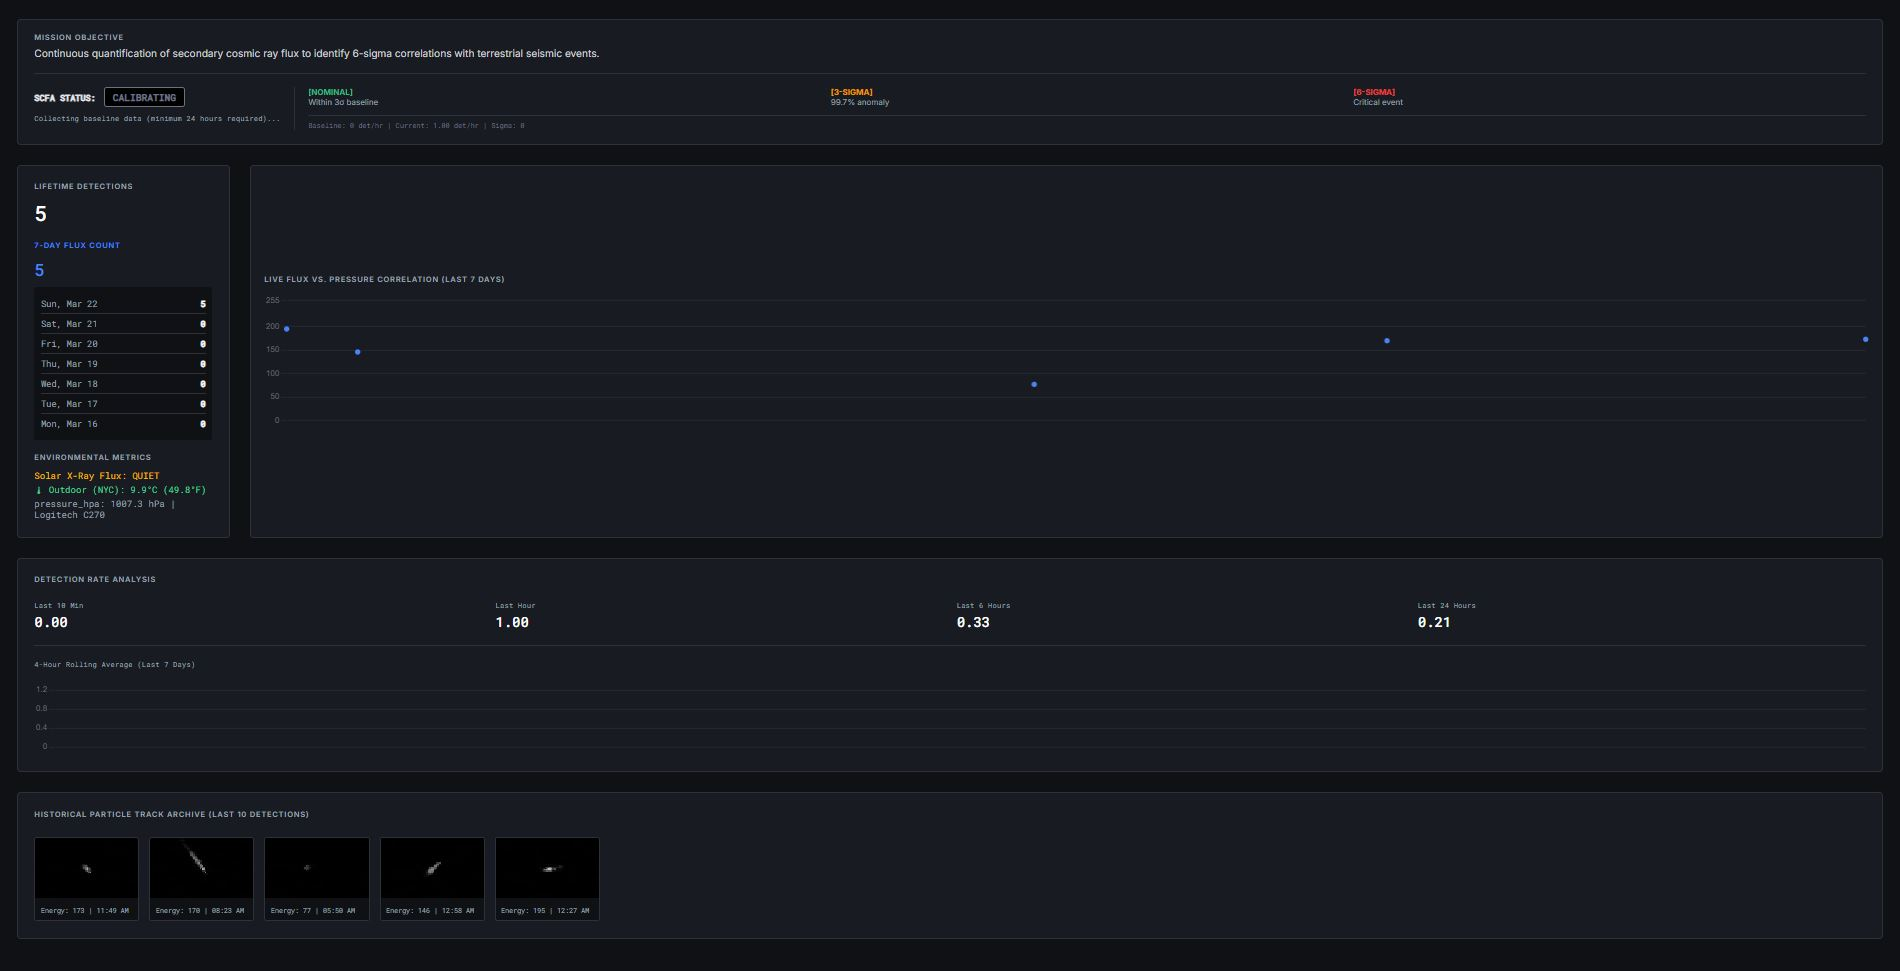
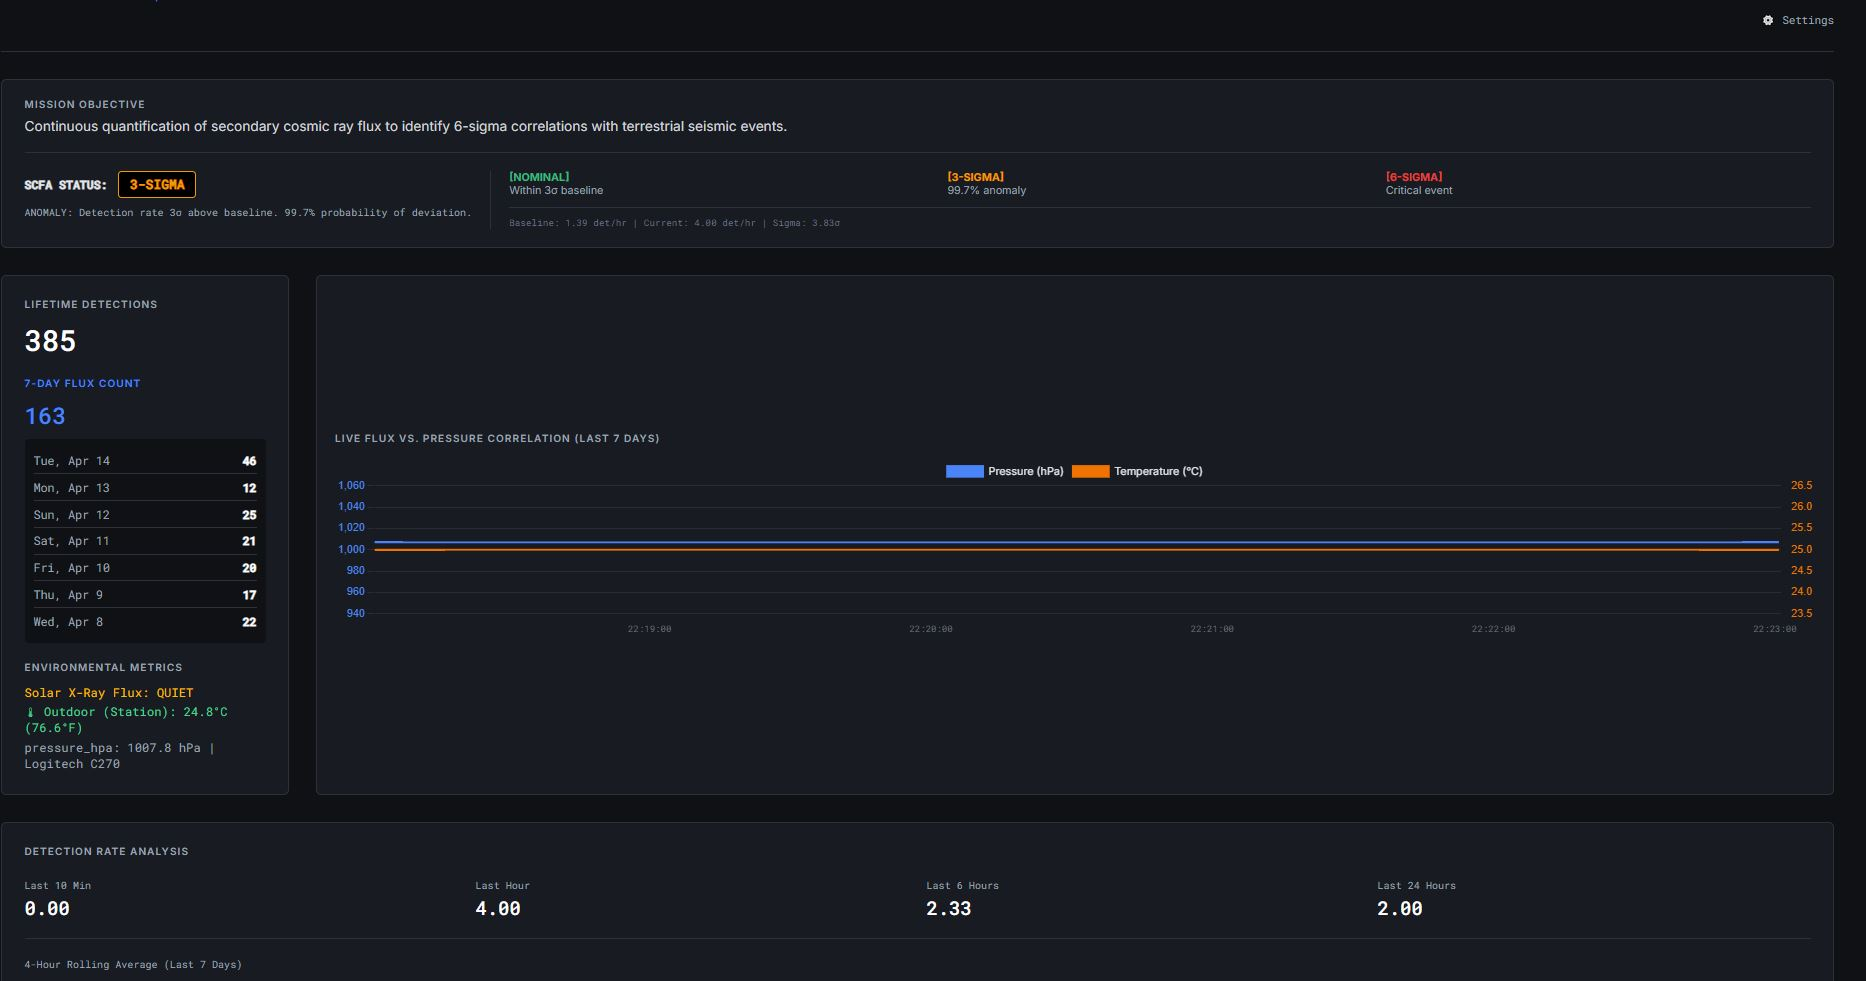
Version 1.3.0, a significant stability and precision upgrade for the CMOSmicRay backend. The core focus was refactoring the WebSocket architecture for multi-threaded resilience, implementing spatial validation to eliminate sensor noise, and introducing an adaptive thresholding model for higher-fidel
1. WebSocket Architecture Refactor
*   Global Scoping: Decoupled handlers and broadcast logic from thread-local targets to the module level, resolving long-standing scoping issues.
*   Python 3.10+ Compatibility: Explicitly managed `asyncio` event loops within the dedicated WebSocket thread, satisfying requirements for newer Python runtimes.
*   Resilience & Cleanup* implemented `discard()`-based client management and specific catches for `ConnectionClosedError` to prevent "zombie" connection accumulation.

2. Spatial Hardening (The 3x3 Check)
*   Introduced `is_spatially_valid` to analyze the neighborhood of a potential hit.
*   The system now rejects isolated "hot pixels" by requiring at least one adjacent pixel to clear a 50% intensity floor relative to the peak, significantly reducing false positives from thermal sensor flicker.

3. Adaptive Detection Logic
*   Updated camera profiles with three-tier gating: `min_absolute`, `ratio_threshold`, and `ratio_min`.
*   Detection sensitivity now scales dynamically based on local background brightness, ensuring consistent performance across varying light/thermal conditions.

4. Diagnostic & Resource Management
*   Trace Diagnostics Added a `RotatingFileHandler` that exports detection telemetry to a CSV (`trace_diagnostics.csv`). This allows for post-hoc analysis of "near-misses" and rejected spatial events without filling the disk.
[…]

diff --git a/CMOSmicRay/CMOSmicRay.py b/CMOSmicRay/CMOSmicRay.py
@@ -17,10 +17,12 @@ import subprocess
 import threading
 import sys
 import logging
+import logging.handlers
 import copy
 from datetime import datetime
 import asyncio
 import websockets
+from websockets.exceptions import ConnectionClosedError, ConnectionClosedOK
 from collections import deque
 from dotenv import load_dotenv
 
@@ -47,15 +49,22 @@ LOCAL_LOG_FILE = os.path.join(BASE_DIR, "detections.json")
 LOCAL_STATUS_FILE = os.path.join(BASE_DIR, "status.json")
 
 # --- HARDWARE PROFILES ---
+# threshold      : legacy absolute pixel-diff gate (kept for reference)
+# min_absolute   : hard minimum diff value to even consider a hit
+# ratio_threshold: adaptive gate — maxVal must be >= ratio_threshold * bg_brightness
+# ratio_min      : floor for the adaptive gate (ignores very dark backgrounds)
 HARDWARE_PROFILES = {
     "C270_FAMILY": {
-        "threshold": 60, "exposure": 1000, "gain": 255, "driver_quirk": "legacy"
+        "threshold": 60, "exposure": 1000, "gain": 255, "driver_quirk": "legacy",
+        "min_absolute": 60, "ratio_threshold": 3.5, "ratio_min": 45
     },
     "C922_FAMILY": {
-        "threshold": 95, "exposure": 150, "gain": 128, "driver_quirk": "standard"
+        "threshold": 95, "exposure": 150, "gain": 128, "driver_quirk": "standard",
+        "min_absolute": 95, "ratio_threshold": 4.0, "ratio_min": 70
     },
     "GENERIC": {
-        "threshold": 80, "exposure": 500, "gain": 150, "driver_quirk": "standard"
+        "threshold": 80, "exposure": 500, "gain": 150, "driver_quirk": "standard",
+        "min_absolute": 80, "ratio_threshold": 3.5, "ratio_min": 55
     }
 }
 
@@ -89,7 +98,7 @@ ALT = float(os.getenv("CREDO_ALT"))
 bg_frame = None; alpha = 0.01; current_token = None
 SCRIPT_START = int(time.time() * 1000); LAST_PING = SCRIPT_START
 last_frame_time = time.time()
-data_cache = deque(maxlen=10000)
+data_cache = []          # Capped at 1000 entries; plain list for JSON serialisation
 connected_clients = set()
 
 # --- ATMOSPHERIC STATE ---
@@ -122,59 +131,134 @@ def get_pressure():
 def get_outdoor_temp():
     return cached_outdoor_temp
 
-def ws_thread_target():
-    loop = asyncio.new_event_loop()
-    asyncio.set_event_loop(loop)
-    
-    async def broadcast():
-        while True:
-            await asyncio.sleep(1)
+# --- DIAGNOSTIC TRACE LOGGER ---
+# Uses a RotatingFileHandler: max 2 MB per file, keeps 5 backups (~10 MB total).
+# CSV format so the data can be loaded directly into pandas / Excel for analysis.
+DIAG_LOG_FILE = os.path.join(BASE_DIR, "trace_diagnostics.csv")
+
+_diag_handler = logging.handlers.RotatingFileHandler(
+    DIAG_LOG_FILE, maxBytes=2 * 1024 * 1024, backupCount=5, encoding="utf-8"
+)
+_diag_handler.setFormatter(logging.Formatter("%(message)s"))  # raw CSV rows
+
+diag_logger = logging.getLogger("TraceDiagnostics")
+diag_logger.setLevel(logging.INFO)
+diag_logger.addHandler(_diag_handler)
+diag_logger.propagate = False  # don't echo to the main console stream
+
+# Write CSV header only when the file is new / empty
+if not os.path.exists(DIAG_LOG_FILE) or os.path.getsize(DIAG_LOG_FILE) == 0:
+    diag_logger.info("timestamp_iso,status,max_val,bg_val,ratio,loc_x,loc_y,note")
+
+
+def log_trace_event(status, max_val, bg_val, coord, note=""):
+    """
+    Appends one CSV row to the rotating diagnostic log.
+    status: 'ACCEPTED' | 'REJECTED_SENSITIVITY' | 'REJECTED_SPATIAL'
+    """
+    ratio = (max_val / bg_val) if bg_val > 0 else float("inf")
+    row = (
+        f"{datetime.utcnow().isoformat()},"
+        f"{status},{int(max_val)},{int(bg_val)},{ratio:.2f},"
+        f"{coord[0]},{coord[1]},{note}"
+    )
+    diag_logger.info(row)
+
+
+def is_spatially_valid(diff_frame, x, y, peak_val):
+    """
+    Returns True if the 3x3 neighbourhood around (x, y) contains more than one
+    pixel above 50 % of the peak value — i.e. the hit is NOT an isolated hot pixel.
+    """
+    roi = diff_frame[max(0, y - 1):y + 2, max(0, x - 1):x + 2]
+    return int(np.sum(roi >= (peak_val * 0.5))) > 1
+
+# --- WEBSOCKET LOGIC (MODULE-LEVEL) ---
+
+async def handler(websocket):
+    """Handles the lifecycle of a single dashboard client connection."""
+    client_info = websocket.remote_address
+    connected_clients.add(websocket)
+    logging.info(f"[WS] Client connected: {client_info}")
+
+    try:
+        # Initial sync: send historical data and script start time
+        await websocket.send(json.dumps({
+            "type": "init",
+            "data": list(data_cache),
+            "script_start": SCRIPT_START
+        }))
+        # Keep connection alive; listen for any client messages
+        async for message in websocket:
+            pass
+
+    except (ConnectionClosedError, ConnectionClosedOK):
+        logging.info(f"[WS] Client {client_info} disconnected normally.")
+    except Exception as e:
+        logging.error(f"[WS] Error with client {client_info}: {e}")
+    finally:
+        connected_clients.discard(websocket)
+        logging.info(f"[WS] Client {client_info} removed from active set.")
+
+
+async def broadcast():
+    """Background task: push telemetry updates to all active dashboard clients."""
+    while True:
+        await asyncio.sleep(1)
+        try:
             now = time.time()
             sys_status = "SYSTEM_STALLED" if (now - last_frame_time > 5.0) else "OK"
-            
-            t_ms = int(now * 1000)
+
             payload = {
                 "type": "update",
-                "timestamp": t_ms,
+                "timestamp": int(now * 1000),
                 "temp": get_outdoor_temp() or 0.0,
                 "pressure": get_pressure() or 0.0,
                 "system_status": sys_status
             }
+
+            # Update cache and cap memory usage
             data_cache.append(payload)
-            
-            if connected_clients:
-                msg = json.dumps(payload)
-                for ws in list(connected_clients):
-                    try:
-                        await ws.send(msg)
-                    except:
-                        pass
-                        
-    async def handler(*args):
-        websocket = args[0]
-        connected_clients.add(websocket)
-        logging.info("[DASHBOARD] WebSocket Client Connected.")
+            if len(data_cache) > 1000:
+                data_cache.pop(0)
+
+            if not connected_clients:
+                continue
+
+            msg = json.dumps(payload)
+            # Broadcast guard: prune dead connections on send failure
+            for ws in list(connected_clients):
+                try:
+                    await ws.send(msg)
+                except (ConnectionClosedError, ConnectionClosedOK, Exception):
+                    connected_clients.discard(ws)
+
+        except Exception as e:
+            logging.error(f"[WS] Broadcast loop error: {e}")
+
+
+def ws_thread_target():
+    """Entry point for the dedicated WebSocket server thread."""
+    new_loop = asyncio.new_event_loop()
+    asyncio.set_event_loop(new_loop)
+
+    async def main_ws():
+        logging.info("[WS] Server starting on port 8001...")
+        broadcast_task = asyncio.create_task(broadcast())
         try:
-            await websocket.send(json.dumps({
-                "type": "init", 
-                "data": list(data_cache),
-                "script_start": SCRIPT_START
-            }))
-            async for _ in websocket: pass
-        except:
-            pass
+            async with websockets.serve(
+                handler, "0.0.0.0", 8001,
+                ping_interval=20,
+                ping_timeout=20
+            ):
+                await asyncio.Future()  # Run forever
         finally:
-            if websocket in connected_clients:
-                connected_clients.remove(websocket)
-            logging.info("[DASHBOARD] WebSocket Client Disconnected.")
+            broadcast_task.cancel()
 
-    async def main():
-        asyncio.create_task(broadcast())
-        # websockets.serve supports both single and double args depending on version
-        async with websockets.serve(handler, "0.0.0.0", 8001):
-            await asyncio.Future()
-
-    loop.run_until_complete(main())
+    try:
+        new_loop.run_until_complete(main_ws())
+    finally:
+        new_loop.close()
 
 def tune_driver():
     logging.info(f"[HARDWARE] Tuning {PROFILE_KEY} ({PROFILE['driver_quirk']})...")
@@ -412,18 +496,53 @@ if __name__ == "__main__":
     
     while True:
         ret, frame = cap.read()
-        if not ret: time.sleep(1); continue
-        
-        # Watchdog status update
+        if not ret:
+            time.sleep(1)
+            continue
+
+        # Watchdog: record frame arrival for SYSTEM_STALLED detection
         last_frame_time = time.time()
-        
+
         gray = cv2.cvtColor(frame, cv2.COLOR_BGR2GRAY)
-        if bg_frame is None: bg_frame = gray.astype("float"); continue
+        if bg_frame is None:
+            bg_frame = gray.astype("float")
+            continue
+
         cv2.accumulateWeighted(gray, bg_frame, alpha)
         diff = cv2.absdiff(gray, cv2.convertScaleAbs(bg_frame))
         _, maxVal, _, maxLoc = cv2.minMaxLoc(diff)
-        
-        if maxVal > PROFILE['threshold']:
-            process_hit(diff, maxLoc[0], maxLoc[1], maxVal)
-            time.sleep(0.5)
+
+        x, y = maxLoc
+        bg_brightness = int(bg_frame[y, x])
+
+        # --- Gate 1: Sensitivity checks ---
+        # Absolute gate: raw diff must exceed the hard minimum for this sensor
+        cond_absolute = maxVal >= PROFILE['min_absolute']
+        # Adaptive gate: diff must be a significant multiple of local background
+        #   AND must clear the ratio floor (avoids false positives on dark frames)
+        cond_adaptive = (
+            maxVal >= PROFILE['ratio_threshold'] * bg_brightness
+            and maxVal >= PROFILE['ratio_min']
+        )
+        # Edge guard: ignore hits right on the frame border (driver artefacts)
+        cond_not_edge = (x > 0 and y > 0)
+
+        if (cond_absolute or cond_adaptive) and cond_not_edge:
+            # --- Gate 2: Spatial hardening — reject isolated hot pixels ---
+            if is_spatially_valid(diff, x, y, maxVal):
+                log_trace_event("ACCEPTED", maxVal, bg_brightness, maxLoc)
+                process_hit(diff, x, y, maxVal)
+                time.sleep(0.5)          # brief cooldown after a confirmed hit
+            else:
+                log_trace_event(
+                    "REJECTED_SPATIAL", maxVal, bg_brightness, maxLoc,
+                    "Isolated pixel — failed 3x3 neighbourhood check"
+                )
+        elif maxVal > PROFILE['min_absolute'] * 0.7:
+            # Near-miss: reached 70 % of the absolute threshold — log for tuning
+            log_trace_event(
+                "REJECTED_SENSITIVITY", maxVal, bg_brightness, maxLoc,
+                "Near-miss (<threshold)"
+            )
+
         time.sleep(0.02)

diff --git a/CHANGELOG.md b/CHANGELOG.md
@@ -5,6 +5,17 @@ All notable changes to this project will be documented in this file.
 The format is based on [Keep a Changelog](https://keepachangelog.com/en/1.0.0/),
 and this project adheres to [Semantic Versioning](https://semver.org/spec/v2.0.0.html).
 
+## [1.3.0] - 2026-04-14
+### Added
+- **Diagnostic Trace Logger**: Implemented a rotating CSV logger (`trace_diagnostics.csv`) that securely records max value, background brightness, and ratios for accepted hits, spatial-rejections, and near-misses for future tuning.
+- **Adaptive Detection Thresholds**: Introduced `min_absolute`, `ratio_threshold`, and `ratio_min` to the camera profiles to automatically scale sensitivity based on dynamic sensor background levels.
+- **Spatial Hardening Check**: Added a 3x3 neighbor analysis (`is_spatially_valid`) to eliminate false positives caused by single isolated "hot pixels".
+
+### Fixed
+- **WebSocket Thread Concurrency**: Elevated `handler` and `broadcast` to the module level to fix scope issues, added explicit `asyncio.set_event_loop(new_loop)` for Python 3.10+ compatibility, and enabled `ConnectionClosed` catching to prevent zombie connections from accumulating and crashing the background loop.
+- **Broadcast Guard**: Implemented robust exception handling with `ping_interval=20` and `ping_timeout=20` to instantly prune disconnected clients.
+- **Memory Leaks**: Capped `data_cache` strictly at 1000 items (using a standard JSON-serializable list rather than infinite deque) to keep the Raspberry Pi memory stable.
+
 ## [1.2.0] - 2026-04-12
 ### Added
 - **Live Configuration Watcher**: Added a background daemon in `CMOSmicRay.py` that actively monitors `.env` for changes and triggers real-time credential swaps (`CREDO_USER`) and API re-authentication without interrupting the detection stream or requiring a restart.

diff --git a/README.md b/README.md
@@ -93,7 +93,7 @@ CREDO_CAMERA_MODEL="C270"  # Options: "C270", "C922", or "Generic"
 
 # --- HARDWARE & SOFTWARE CONFIGURATION ---
 CREDO_DEVICE_MODEL="RPi Model B"
-CREDO_SOFTWARE_VERSION="v1.2"
+CREDO_SOFTWARE_VERSION="v1.3"
 ```
 
 ### Step 2: Customizing Variables
